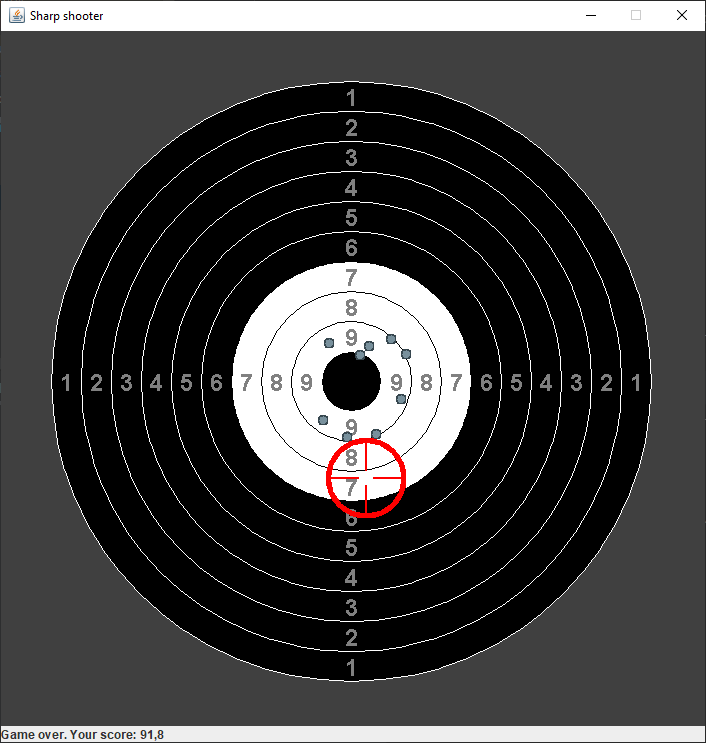
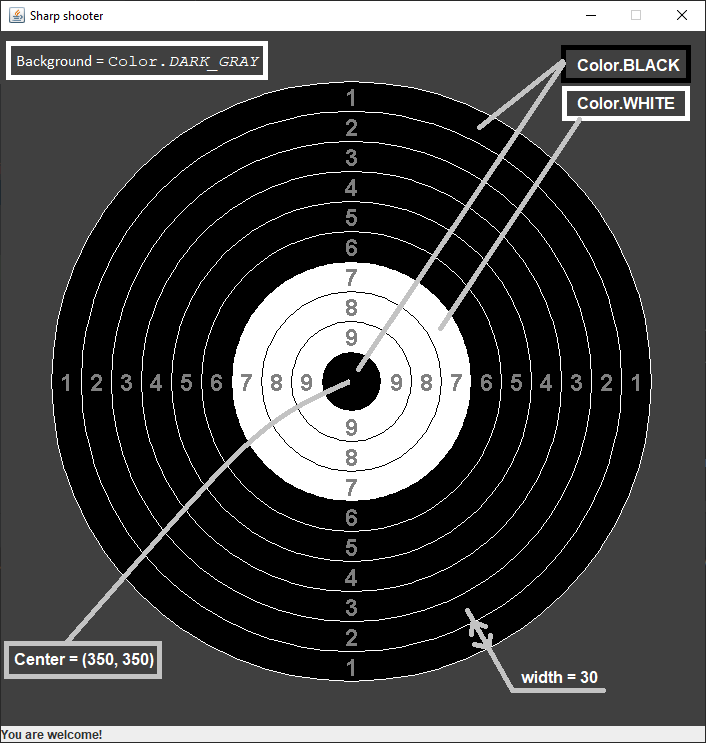
Changed the pictures and the inscriptions.

diff --git a/lesson1/task1/task.html b/lesson1/task1/task.html
@@ -12,8 +12,11 @@
     Also, we will add some special effects to decrease shooting precision.<br>
 </p>
 
-<p>An example of the game demonstrates in figure <b>Example 1.</b></p>
+<p>A possible version of the complete game demonstrates in the following figure.
+    <img src="Figure1.png" alt="">
+</p>
 
+<br>
 <p>In this stage, we will create a game field and graphical objects.</p>
 <p>You will construct three graphical objects:
 <li><b>Target</b> is a family of concentric circles. The <b>Target</b> always stays still.</li>
@@ -37,7 +40,7 @@ The <b>Canvas</b> should be in focus.
 <p>You should draw the <b>Target</b> on the <b>Canvas</b> with the following requirements:
 <li><b>The center point</b> of the <b>Target</b> should be at <b>(350, 350).</b></li>
 <li>The <b>Target</b> should contain ten concentric circles with incrementing of radius in 30 pixels.</li>
-<li>The colors of the circles should be <i>Color.BLACK</i> and <i>Color.WHITE</i>, and alternate as shown in <b>Example 2</b>.</li>
+<li>The colors of the circles should be <i>Color.BLACK</i> and <i>Color.WHITE</i>, and alternate as shown in <b>Example 1</b>.</li>
 <li>The background color of the <b>Target</b> should be Color.DARK_GRAY.</li>
 </p>
 
@@ -48,14 +51,16 @@ with a color different from Color.BLACK, Color.WHITE, Color.DARK_GRAY.</p>
 <br>
 <p>You can draw the <b>Gun Sight</b> at your discretion.</p>
 
+<p>As a result, you should have something like in <b>Example 2.</b></p>
+
 <br>
 <h2>Examples</h2>
 
-<h3>Example 1: <i>The playing field</i></h3>
+<h3>Example 1: <i>The Target</i></h3>
 <img src="Example1.png">
 
 <br>
-<h3>Example 2: <i>The Target</i></h3>
+<h3>Example 2: <i>A possible result</i></h3>
 <img src="Example2.png"/>
 
 </html>

diff --git a/lesson1/task1/src/ru/spb/altercom/Canvas.java b/lesson1/task1/src/ru/spb/altercom/Canvas.java
@@ -26,6 +26,7 @@ public class Canvas extends JPanel {
 
         g2.drawImage(Target.IMAGE, 0, 0, null);
         g2.drawImage(BulletHole.IMAGE, 300 - BULLET_HOLE_RADIUS, 500 - BULLET_HOLE_RADIUS, null);
+        g2.drawImage(Sight.IMAGE, 600, 50, null);
 
     }
 
